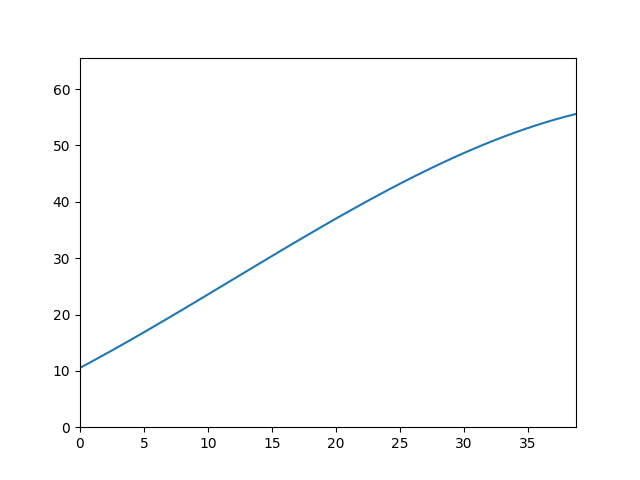
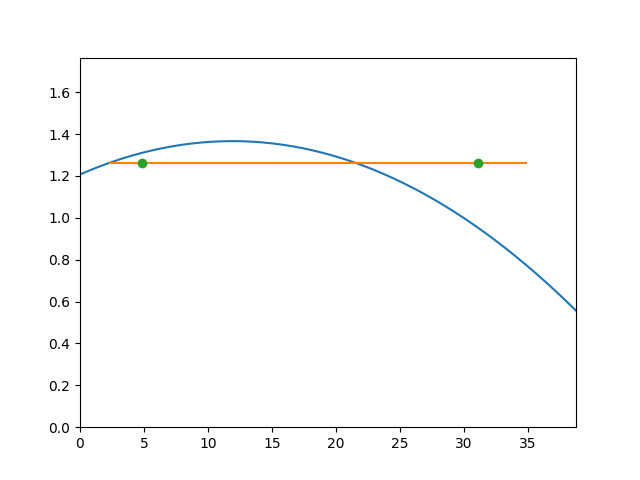
graph updates

diff --git a/analyze_derailleur.py b/analyze_derailleur.py
@@ -156,6 +156,7 @@ for dir in os.listdir('derailleurs'):
   dropout_width = (info["minDropoutWidth"] + info["maxDropoutWidth"])/2
   small_cog_offset = info["smallCogOffset"]
   small_cog_position = dropout_width + small_cog_offset
+  biggest_cog_position = small_cog_position + info["designCogPitch"] * (info["designSpeeds"] - 1)
   second_smallest_cog_position = info["designCogPitch"] + small_cog_position
 
   total_pitch_inner_cogs = info["designCogPitch"] * (info["designSpeeds"] - 3)
@@ -164,17 +165,21 @@ for dir in os.listdir('derailleurs'):
 
   curve = np.polynomial.polynomial.Polynomial(avg_coefs)
 
+  smallest_cog_pull = [r for r in (curve - small_cog_position).roots()
+                              if r >= 0 and r < max_pull][0]
+
   second_smallest_cog_pull = [r for r in (curve - second_smallest_cog_position).roots()
                               if r >= 0 and r < max_pull][0]
   
   second_biggest_cog_pull = [r for r in (curve - second_biggest_cog_position).roots()
                               if r >= 0 and r < max_pull][0]
 
+  biggest_cog_pull = [r for r in (curve - biggest_cog_position).roots()
+                              if r >= 0 and r < max_pull][0]
+
   pull_ratio = total_pitch_inner_cogs/(second_biggest_cog_pull - second_smallest_cog_pull)
   print(pull_ratio)
 
-  x_new = np.linspace(0, max_pull, 50)
-  y_new = curve(x_new)
 
   info_out = {**info,
               "pullRatio": pull_ratio,
@@ -186,8 +191,27 @@ for dir in os.listdir('derailleurs'):
   with open(f"derailleurs/{dir}/info_out.json", "w") as info_file:
     json.dump(info_out, info_file, indent=2)
   
+  x_new = np.linspace(0, max_pull, 50)
+  y_new = curve(x_new)
+  
   plt.clf()
   plt.plot(x_new, y_new)
   plt.xlim([0, max_pull])
   plt.ylim([0, curve(max_pull) + 10])
+  plt.savefig(f"derailleurs/{dir}/pull_curve.png")
+  
+  pull_ratio_curve = curve.deriv(1)
+  x_new = np.linspace(0, max_pull, 50)
+  y_new = pull_ratio_curve(x_new)
+
+  x_pr = [smallest_cog_pull, biggest_cog_pull]
+  y_pr = [pull_ratio, pull_ratio]
+
+  x_cogs = [second_smallest_cog_pull, second_biggest_cog_pull]
+  y_cogs = [pull_ratio, pull_ratio]
+  
+  plt.clf()
+  plt.plot(x_new, y_new, x_pr, y_pr, x_cogs, y_cogs, "o")
+  plt.xlim([0, max_pull])
+  plt.ylim([0, pull_ratio*1.4])
   plt.savefig(f"derailleurs/{dir}/pull_ratio_curve.png")
